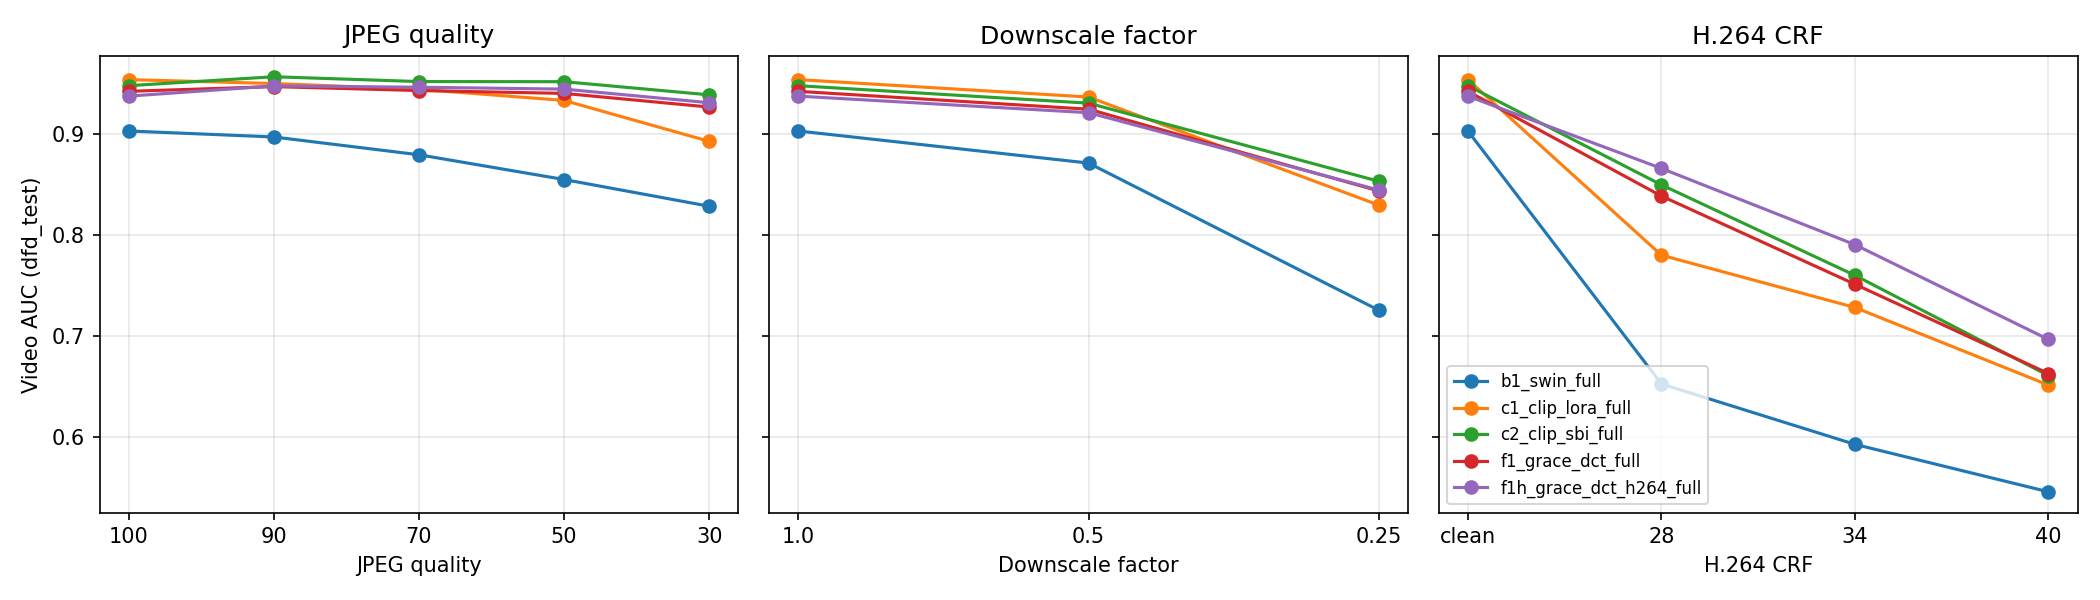
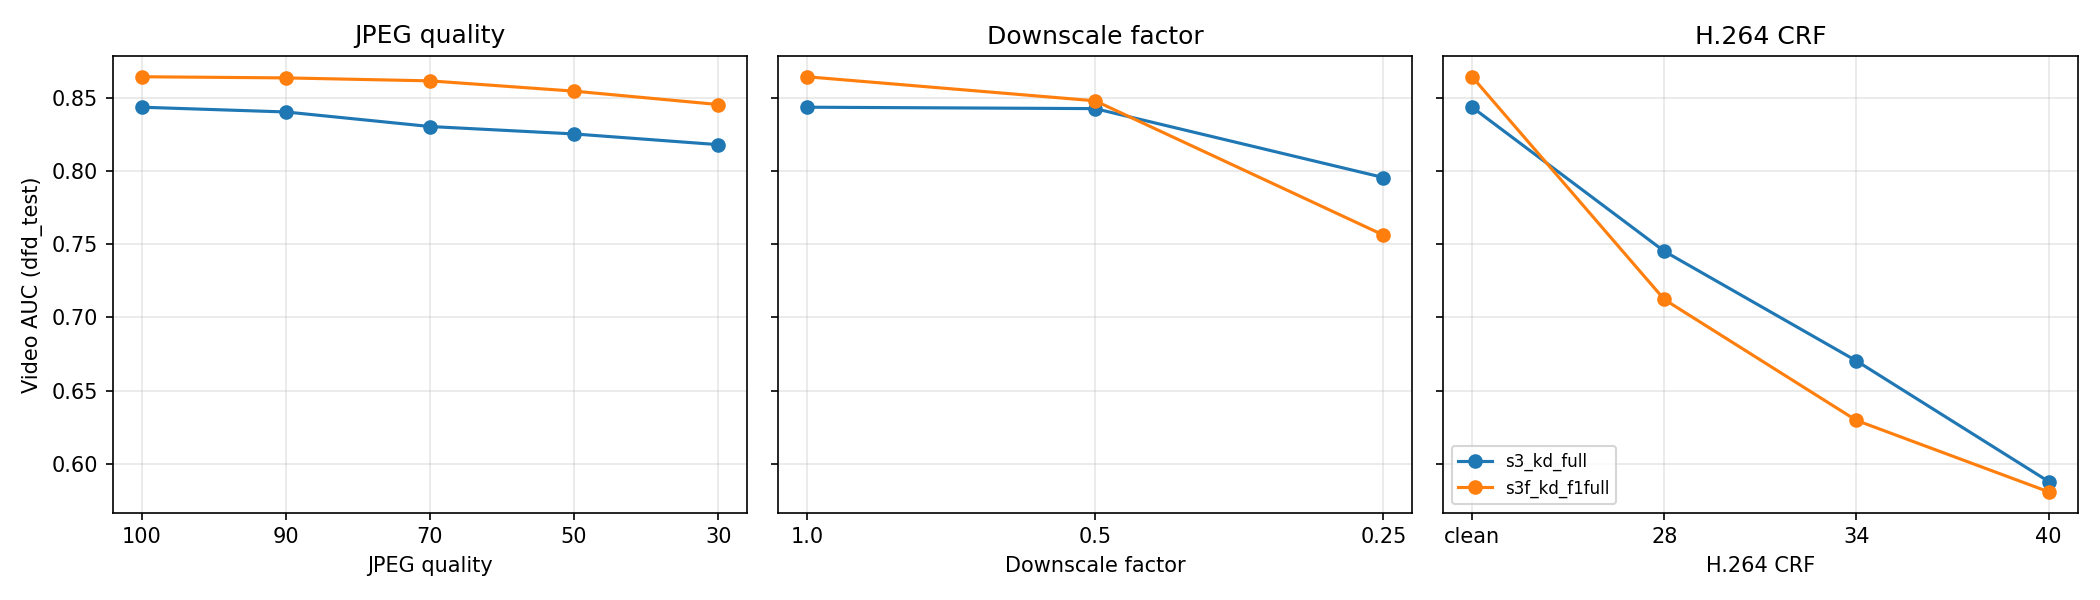
S3f robustness; queue H.264 full-FF++ student S3fh

diff --git a/STATUS.md b/STATUS.md
@@ -266,3 +266,4 @@ See `splits/counts.md` for the full table.
 - 2026-11-27 15:50: F1h-full s2 done 07:32 (all 15 full-FF++ runs finished). `robustness_full` much slower than estimated (~41 results/h, 338/405 at 15:45; ETA ~17:20), so the S3f student jobs start ~17:20 and end ~21:00. Partial robustness (mean of 3 seeds, F1h s42 only): under compression F1 leads C1 on Celeb-DF (jpeg:50 0.958 vs 0.941, h264:34 0.852 vs 0.837, down:0.25 0.931 vs 0.906; C1 only ahead at h264:40); on DFD under H.264 F1h is best (h264:34 0.793, C2 0.760, F1 0.751, C1 0.728). Clean-data parity between F1 and C1 turns into an F1 lead once videos are degraded.
 - 2026-11-27 19:45: **`robustness_full` done** (17:22; `results/fullff/robustness_full.csv`, figures `results/fullff/fig_robustness_*.png`). Mean of 3 seeds, video AUC. H.264 (crf 28/34/40): F1h best on Celeb-DF (0.914 / 0.860 / 0.739; C1 0.891 / 0.837 / 0.725, F1 0.913 / 0.852 / 0.694) and DFD (0.866 / 0.790 / 0.697; C2 0.850 / 0.760 / 0.661); DFO F1h best at crf 28/34 (0.950 / 0.912), C2 at crf 40 (0.829 vs 0.817). JPEG 50 / downscale 0.25 on Celeb-DF: F1 best (0.958 / 0.931 vs C1 0.941 / 0.906).
   - **S3f student** (full FF++, distilled from F1-full): SBI pool 40k, teacher cache 178,238 crops (check 4.8e-6), s42 fullff 0.988 / DFD 0.840 / Celeb-DF 0.825 / DFO 0.829, s1 0.989 / 0.849 / 0.795 / 0.844 (old S3 mean: DFD 0.844, Celeb-DF 0.765, DFO 0.760). ONNX `release/grace_student_fullff.onnx` 19.4 MB, max diff 7.8e-5. s2 running, then `robustness_full_student`.
+- 2026-11-28 09:30: **S3f student done** (3 seeds; s2 0.989 / 0.904 / 0.758 / 0.795). `robustness_full_student` (20:55): clean S3f beats S3 (Celeb-DF 0.793 vs 0.765, DFD 0.864 vs 0.844, DFO 0.823 vs 0.760) and under JPEG 50, but loses under H.264 (crf 34: Celeb-DF 0.698 vs 0.717, DFD 0.630 vs 0.670, DFO 0.613 vs 0.660) and downscaling on DFD/DFO. GPU idle 20:55-09:24 (queue empty). Queued `s3fh_kd_f1hfull_h264` (S3f + H.264 student input, distilled from F1h-full s42; teacher cache `cache_fullff/teacher_f1h`), 3 seeds, ONNX `release/grace_student_fullff_h264.onnx`, robustness vs S3hh. ETA ~13:00.
